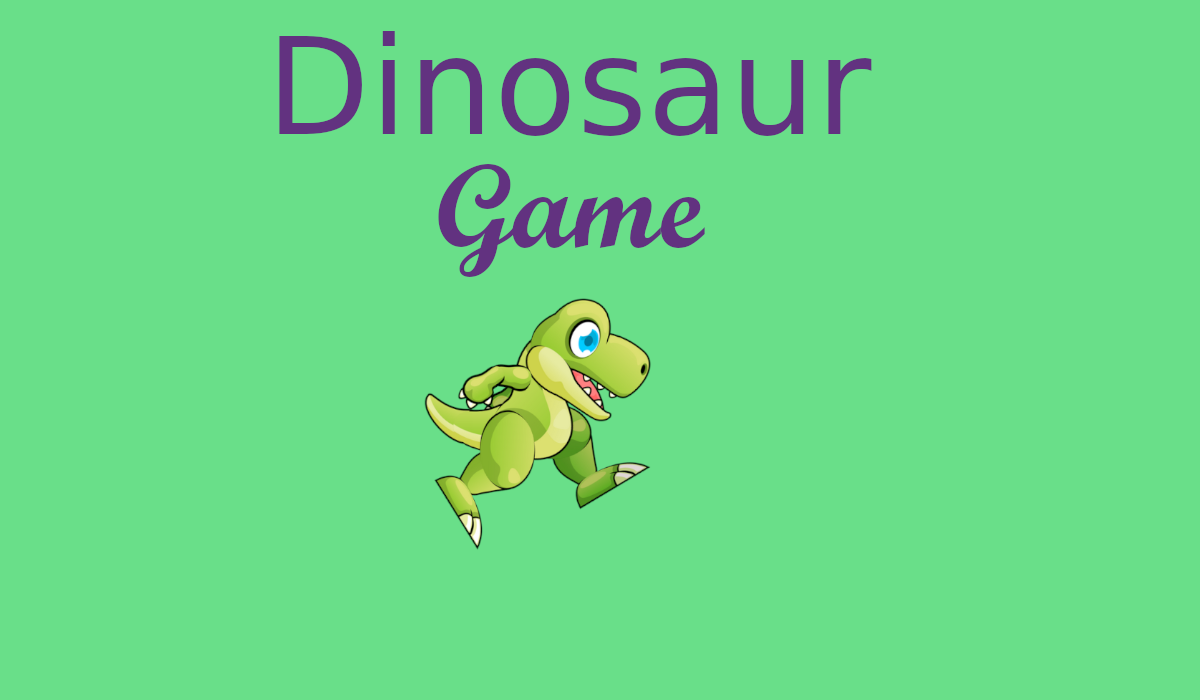
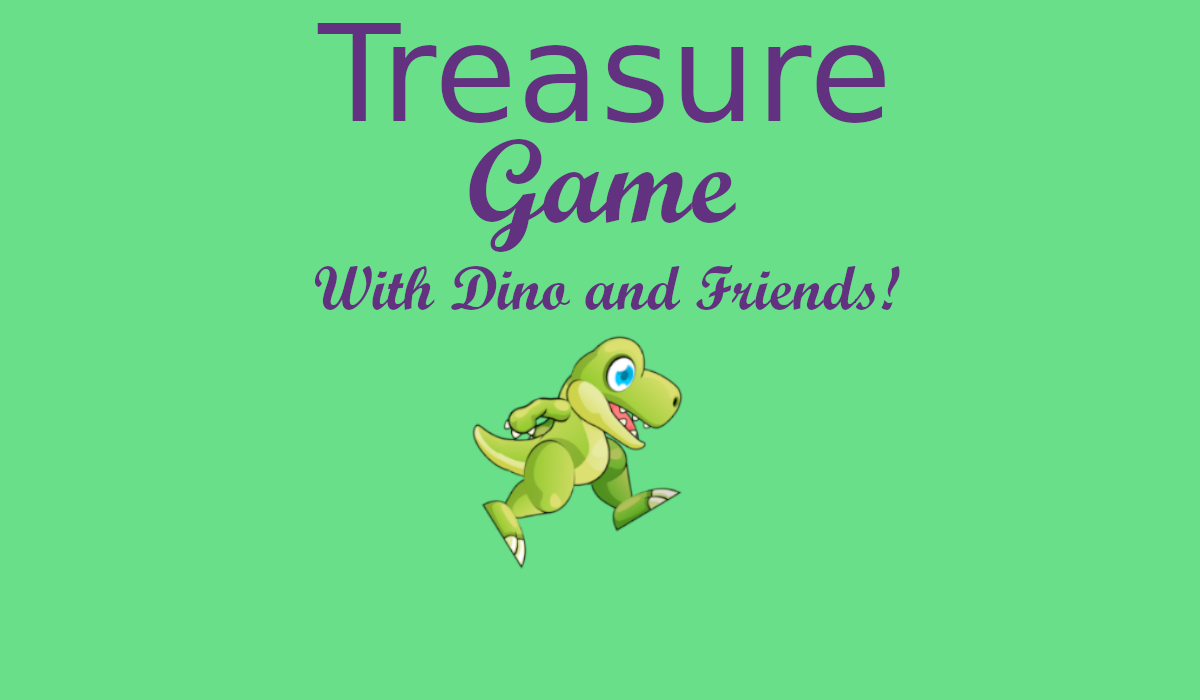
start to add more characters

Changed region(s): [[0.2158, 0.03, 0.7708, 0.81]]

diff --git a/dino-js.js b/dino-js.js
@@ -1,7 +1,5 @@
 const canvas = document.getElementById('canvas1');
-//var canvas = document.createElement("canvas");
 const ctx = canvas.getContext('2d');
-//document.body.appendChild(canvas);
 canvas.width = 1200;
 canvas.height = 700;
 
@@ -10,7 +8,14 @@ const keys = [];
 var tc = false; // one tresure chest
 var start = false;
 var end = true;
-//var startNewGame = false;
+
+/*const chact = [
+      [sprSt="sprites", x=100, y=250, width=175, height=175, dirX=0, dirY=0, speed=10, moving=false],
+      [sprSt="bears", x=100, y=250, width=175, height=215, dirX=0, dirY=0, speed=10, moving=false]
+];
+
+console.log(chact[1][0]);*/
+
 
 const dino = {
     x: 100,
@@ -22,6 +27,19 @@ const dino = {
     speed: 20,
     moving: false
 };
+
+
+/*const bear = {
+    x: 100,
+    y: 250,
+    width: 175,
+    height: 215,
+    dirX: 0,
+    dirY: 0,
+    speed: 10,
+    moving: false
+};*/
+
 
 var tresureChest = {
     ////////
@@ -37,8 +55,12 @@ var tresureChest = {
 
 function startAgain() {
   if (keys[32]){
-      dino.x = 100;
-      dino.y = 250;
+      //bear.x = 100;
+      //bear.y = 250;
+
+      dino.x = 150;
+      dino.y = 350;
+
       end=true;
       tc=false;
       randNumGen();
@@ -58,9 +80,13 @@ startImage.src = "firstScreen.png";
 const background = new Image();
 background.src = "BG1.png";
 
-//sprites
+//dino
 const sprites = new Image();
 sprites.src = "din-fin1.png";
+
+//bear
+const bears = new Image();
+bears.src = "bears-sheet.png";
 
 
 function drawSprite(img, sX, sY, sW, sH, dX, dY, dW, dH){
@@ -78,35 +104,68 @@ window.addEventListener("keyup", function(e){
 });
 
 
-function movePlayer() {
-    //up
-    if (keys[38] && dino.y > 220) {
-        dino.y -= dino.speed;
-        dino.dirY = 0;
-        dino.moving = true;
+/*function movePlayer() {
+ 
+    if (keys[38] && dino[0][2] > 220) {
+        dino[0][2] -= dino.speed;
+        dino[i].dirY = 0;
+        dino[i].moving = true;
     }
 
-    //left
+    
     if (keys[37] && dino.x > 0) {
         dino.x -= dino.speed;
         dino.dirY = 1;
         dino.moving = true;
     }
 
-   //down
+   
    if (keys[40] && dino.y < (canvas.height+25) - dino.height) {
         dino.y += dino.speed;
         dino.dirY = 0;
         dino.moving = true;
     }
 
-    //right
+    
+    if (keys[39] && dino.x < canvas.width - dino.width) {
+        dino.x += dino.speed;
+        dino.dirY = 0;
+        dino.moving = true;
+    }
+}*/
+
+
+
+function movePlayer() {
+ 
+    if (keys[38] && dino.y > 220) {
+        dino.y -= dino.speed;
+        dino.dirY = 0;
+        dino.moving = true;
+    }
+
+    
+    if (keys[37] && dino.x > 0) {
+        dino.x -= dino.speed;
+        dino.dirY = 1;
+        dino.moving = true;
+    }
+
+   
+   if (keys[40] && dino.y < (canvas.height+25) - dino.height) {
+        dino.y += dino.speed;
+        dino.dirY = 0;
+        dino.moving = true;
+    }
+
+    
     if (keys[39] && dino.x < canvas.width - dino.width) {
         dino.x += dino.speed;
         dino.dirY = 0;
         dino.moving = true;
     }
 }
+
 
 
 function handlePlayerFrame() {
@@ -142,10 +201,14 @@ function ani() {
     ctx.clearRect(0,0,canvas.width, canvas.height);
 
     if (!start) {
+
+        var w = canvas.width / 2;
+
         ctx.drawImage(startImage, 0, 0, canvas.width, canvas.height);
         ctx.font = "35px Comic Sans MS";
         ctx.fillStyle = "darkgreen";
-        ctx.fillText("Spacebar to Play!", 450, 680);
+        ctx.textAlign = "center"; 
+        ctx.fillText("Spacebar to Play!", w, 680);
 
         if (keys[32]) {
             start=true;
@@ -157,14 +220,20 @@ function ani() {
 
     if (end) {
 
-    ctx.fillStyle = "darkgreen";
-    ctx.font = "35px Comic Sans MS";
-    ctx.fillText("Dinosaur and Treasure Game!", 380, 40);
-    ctx.fillStyle = "darkgreen";
-    ctx.font = "25px Comic Sans MS";
-    ctx.fillText("Directions: arrow keys to move", 390, 690);  
+    var w1 = canvas.width / 2;
 
+    ctx.fillStyle = "darkgreen";
+    ctx.textAlign = "center"; 
+    ctx.font = "35px Comic Sans MS";
+    ctx.fillText("Treasure Game", w1, 40);
+    ctx.font = "25px Comic Sans MS";
+    ctx.fillText("With Dino and Friends!", w1, 70);
+    ctx.font = "25px Comic Sans MS";
+    ctx.fillText("Directions: arrow keys to move", w1, 690);
+ 
     drawSprite(sprites, dino.width * dino.dirX, dino.height * dino.dirY, dino.width, dino.height, dino.x, dino.y, dino.width, dino.height);
+    //drawSprite(chact[0].sprSt, chact[0].width * chact[0].dirX, chact.height * chact.dirY, chact.width, chact.height, chact.x, chact.y, chact.width, chact.height);
+    //drawSprite(chact[0][0], chact[0][3] * chact[0][5], chact[0][4] * chact[0][6], chact[0][3], chact[0][4], chact[0][1], chact[0][2], chact[0][3], chact[0][4]);
 
     }//end
 
@@ -174,14 +243,17 @@ function ani() {
 
    if (dino.x <= (tresureChest.dirChestX+140) && tresureChest.dirChestX <= (dino.x+140) && dino.y <= (tresureChest.dirChestY+140) && tresureChest.dirChestY <= (dino.y+140)) {
         ctx.drawImage(sprites,tresureChest.chestX,(tresureChest.chestY+90),240,300,tresureChest.dirChestX,(tresureChest.dirChestY-60),220,320);
-    
+
+        var w2 = canvas.width / 2;
+
         ctx.fillStyle = "blue";
+        ctx.textAlign = "center"; 
         ctx.font = "140px Comic Sans MS";
-        ctx.fillText("Yay!", 450, 200);
+        ctx.fillText("Yay!", w2, 200);
         ctx.font = "60px Comic Sans MS";
-        ctx.fillText("You have found the treasure!", 220, 300);
+        ctx.fillText("You have found the treasure!", w2, 300);
         ctx.font = "50px Comic Sans MS";
-        ctx.fillText("Hit the Spacebar to Play Again!", 260, 400);
+        ctx.fillText("Hit the Spacebar to Play Again!", w2, 400);
 
         end = false;
 

diff --git a/dino-css.css b/dino-css.css
@@ -10,7 +10,7 @@ margin: 0;
   margin-right: auto;
   display: block;
   width: 1200px;
-  border: 5px solid green;
+  border: 5px solid darkgreen;
   background: green;
 }
 
